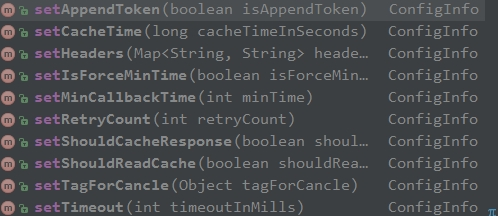
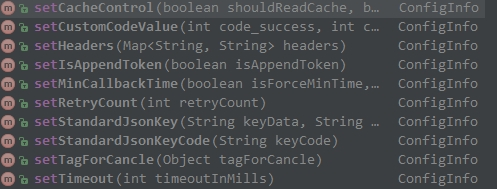
timer custom time

diff --git a/netwrapper2/src/main/java/com/hss01248/net/wrapper/Tool.java b/netwrapper2/src/main/java/com/hss01248/net/wrapper/Tool.java
@@ -74,20 +74,30 @@ public class Tool {
     }
 
 
-
-
-    public static <T> void parseInTime(long time, ConfigInfo<T> configInfo, final Runnable runnable
-    ) {
+    /**
+     *
+     * @param startTime 请求刚开始的时间
+     * @param configInfo
+     * @param runnable 要执行的代码,通常是最终的网络回调
+     * @param <T>
+     */
+    public static <T> void parseInTime(long startTime, ConfigInfo<T> configInfo, final Runnable runnable) {
         long time2 = System.currentTimeMillis();
-        long gap = time2 - time;
+        long gap = time2 - startTime;
 
-        if (configInfo.isForceMinTime && (gap < NetDefaultConfig.TIME_MINI)){
-            TimerUtil.doAfter(new TimerTask() {
-                @Override
-                public void run() {
-                    runnable.run();
-                }
-            },(NetDefaultConfig.TIME_MINI - gap));
+        if (configInfo.isForceMinTime ){
+            long minGap = configInfo.minTime <= 0 ? NetDefaultConfig.TIME_MINI : configInfo.minTime;
+
+            if (gap < minGap){
+                TimerUtil.doAfter(new TimerTask() {
+                    @Override
+                    public void run() {
+                        runnable.run();
+                    }
+                },(minGap - gap));
+            }else {
+                runnable.run();
+            }
 
         }else {
             runnable.run();

diff --git a/netwrapper2/src/main/java/com/hss01248/net/config/ConfigInfo.java b/netwrapper2/src/main/java/com/hss01248/net/config/ConfigInfo.java
@@ -93,7 +93,7 @@ public class ConfigInfo<T> {
 
 
 
-    public ConfigInfo<T> setAppendToken(boolean isAppendToken){
+    public ConfigInfo<T> setIsAppendToken(boolean isAppendToken){
         this.isAppendToken = isAppendToken;
         return this;
     }
@@ -133,17 +133,21 @@ public class ConfigInfo<T> {
     //強制控制回調的最短時間,默認不控制,如果需要,則自己寫
     public  int minTime = 0;
 
-    public ConfigInfo<T> setMinCallbackTime(int minTime){
+    /**
+     *
+     * @param isForceMinTime 是否强制最短时间
+     * @param minTime 自定义的最短时间.如果为小于0,则采用默认的1500ms
+     * @return
+     */
+    public ConfigInfo<T> setMinCallbackTime(boolean isForceMinTime,int minTime){
+        this.isForceMinTime = isForceMinTime;
         this.minTime = minTime;
         return this;
     }
 
     public boolean isForceMinTime = false;
 
-    public ConfigInfo<T> setIsForceMinTime(boolean isForceMinTime){
-        this.isForceMinTime = isForceMinTime;
-        return this;
-    }
+
 
     //用于取消请求用的
     public Object tagForCancle = "";

diff --git a/app/src/main/java/com/hss01248/netdemo/MainActivity.java b/app/src/main/java/com/hss01248/netdemo/MainActivity.java
@@ -6,6 +6,8 @@ import android.os.Environment;
 import android.view.View;
 import android.widget.Button;
 
+import com.hss01248.net.config.ConfigInfo;
+import com.hss01248.net.interfaces.ILoginManager;
 import com.hss01248.net.retrofit.RetrofitClient;
 import com.hss01248.net.wrapper.MyJson;
 import com.hss01248.net.wrapper.MyNetApi;
@@ -51,7 +53,22 @@ public class MainActivity extends Activity {
         super.onCreate(savedInstanceState);
         setContentView(R.layout.activity_main);
         ButterKnife.bind(this);
-        MyNetApi.init(this, RetrofitClient.getInstance());
+        MyNetApi.init(this, RetrofitClient.getInstance(), new ILoginManager() {
+            @Override
+            public boolean isLogin() {
+                return false;
+            }
+
+            @Override
+            public <T> ConfigInfo<T> autoLogin() {
+                return null;
+            }
+
+            @Override
+            public <T> ConfigInfo<T> autoLogin(MyNetListener<T> listener) {
+                return null;
+            }
+        });
         Logger.init("net");
     }
 

diff --git a/README.md b/README.md
@@ -12,6 +12,10 @@
 
 上传和下载的进度回调(填了很大的坑)
 
+指定请求回调的最短时间
+
+自动登录和登录状态接口
+
 
 
 
@@ -49,6 +53,37 @@
 
 
 # usage
+
+
+
+## gradle
+
+Step 1. Add the JitPack repository to your build file
+
+Add it in your root build.gradle at the end of repositories:
+
+```
+allprojects {
+    repositories {
+        ...
+        maven { url "https://jitpack.io" }
+    }
+}
+
+
+```
+
+Step 2. Add the dependency
+
+```
+dependencies {
+        compile 'com.github.hss01248:FaceDetect:1.0.0'
+}
+```
+
+
+
+## api
 
 ```
 getString(String url, Map map, MyNetListener listener).setXxx()....start();
@@ -90,6 +125,12 @@ download(String url, String savedpath, MyNetListener listener).start()
 
 upLoad(String url, Map<String,String> params,Map<String,String> files, MyNetListener callback).start()
 
+//自动登录相关:
+autoLogin();
+
+autoLogin(MyNetListener myNetListener);
+
+boolean isLogin();
 ```
 
 
@@ -180,6 +221,7 @@ public static void setStandardJsonKey(String data,String code,String msg,int cod
 > 主要是因为,okhttp只缓存get请求,不缓存post请求.但实际工作中有时需要缓存post请求的数据.
 
 
+
 >屏蔽的思路: 请求头cacheControl指定为no-cache,然后用拦截器修改响应头,移除expeirs,pragma之类的字段并把cacheControl改为no-cache.
 
 ## 配置单个请求的缓存策略(默认是无缓存)
@@ -196,6 +238,25 @@ ConfigInfo:
  * @return
  */
 public ConfigInfo<T> setCacheControl(boolean shouldReadCache,boolean shouldCacheResponse,long cacheTimeInSeconds)
+```
+
+
+
+# 请求最短回调时间的设置
+> 主要针对如下情况:
+>
+> 发送网络请求之前弹出一个dialog来提示加载中,回调成功后dismiss并关掉整个activity.如果回调很快,可能会出现: dialog还没有弹出来,activity就关掉了,crash,日志为bad windowToken,is your activity running?  这时,需要指定最短回调时间,一般dialog弹出需要几百毫秒不等,限定1s或2s即可.
+
+## 设置:
+
+```java
+/**
+ *
+ * @param isForceMinTime 是否强制最短时间
+ * @param minTime 自定义的最短时间.如果为小于0,则采用默认的1500ms
+ * @return
+ */
+public ConfigInfo<T> setMinCallbackTime(boolean isForceMinTime,int minTime)
 ```
 
 
